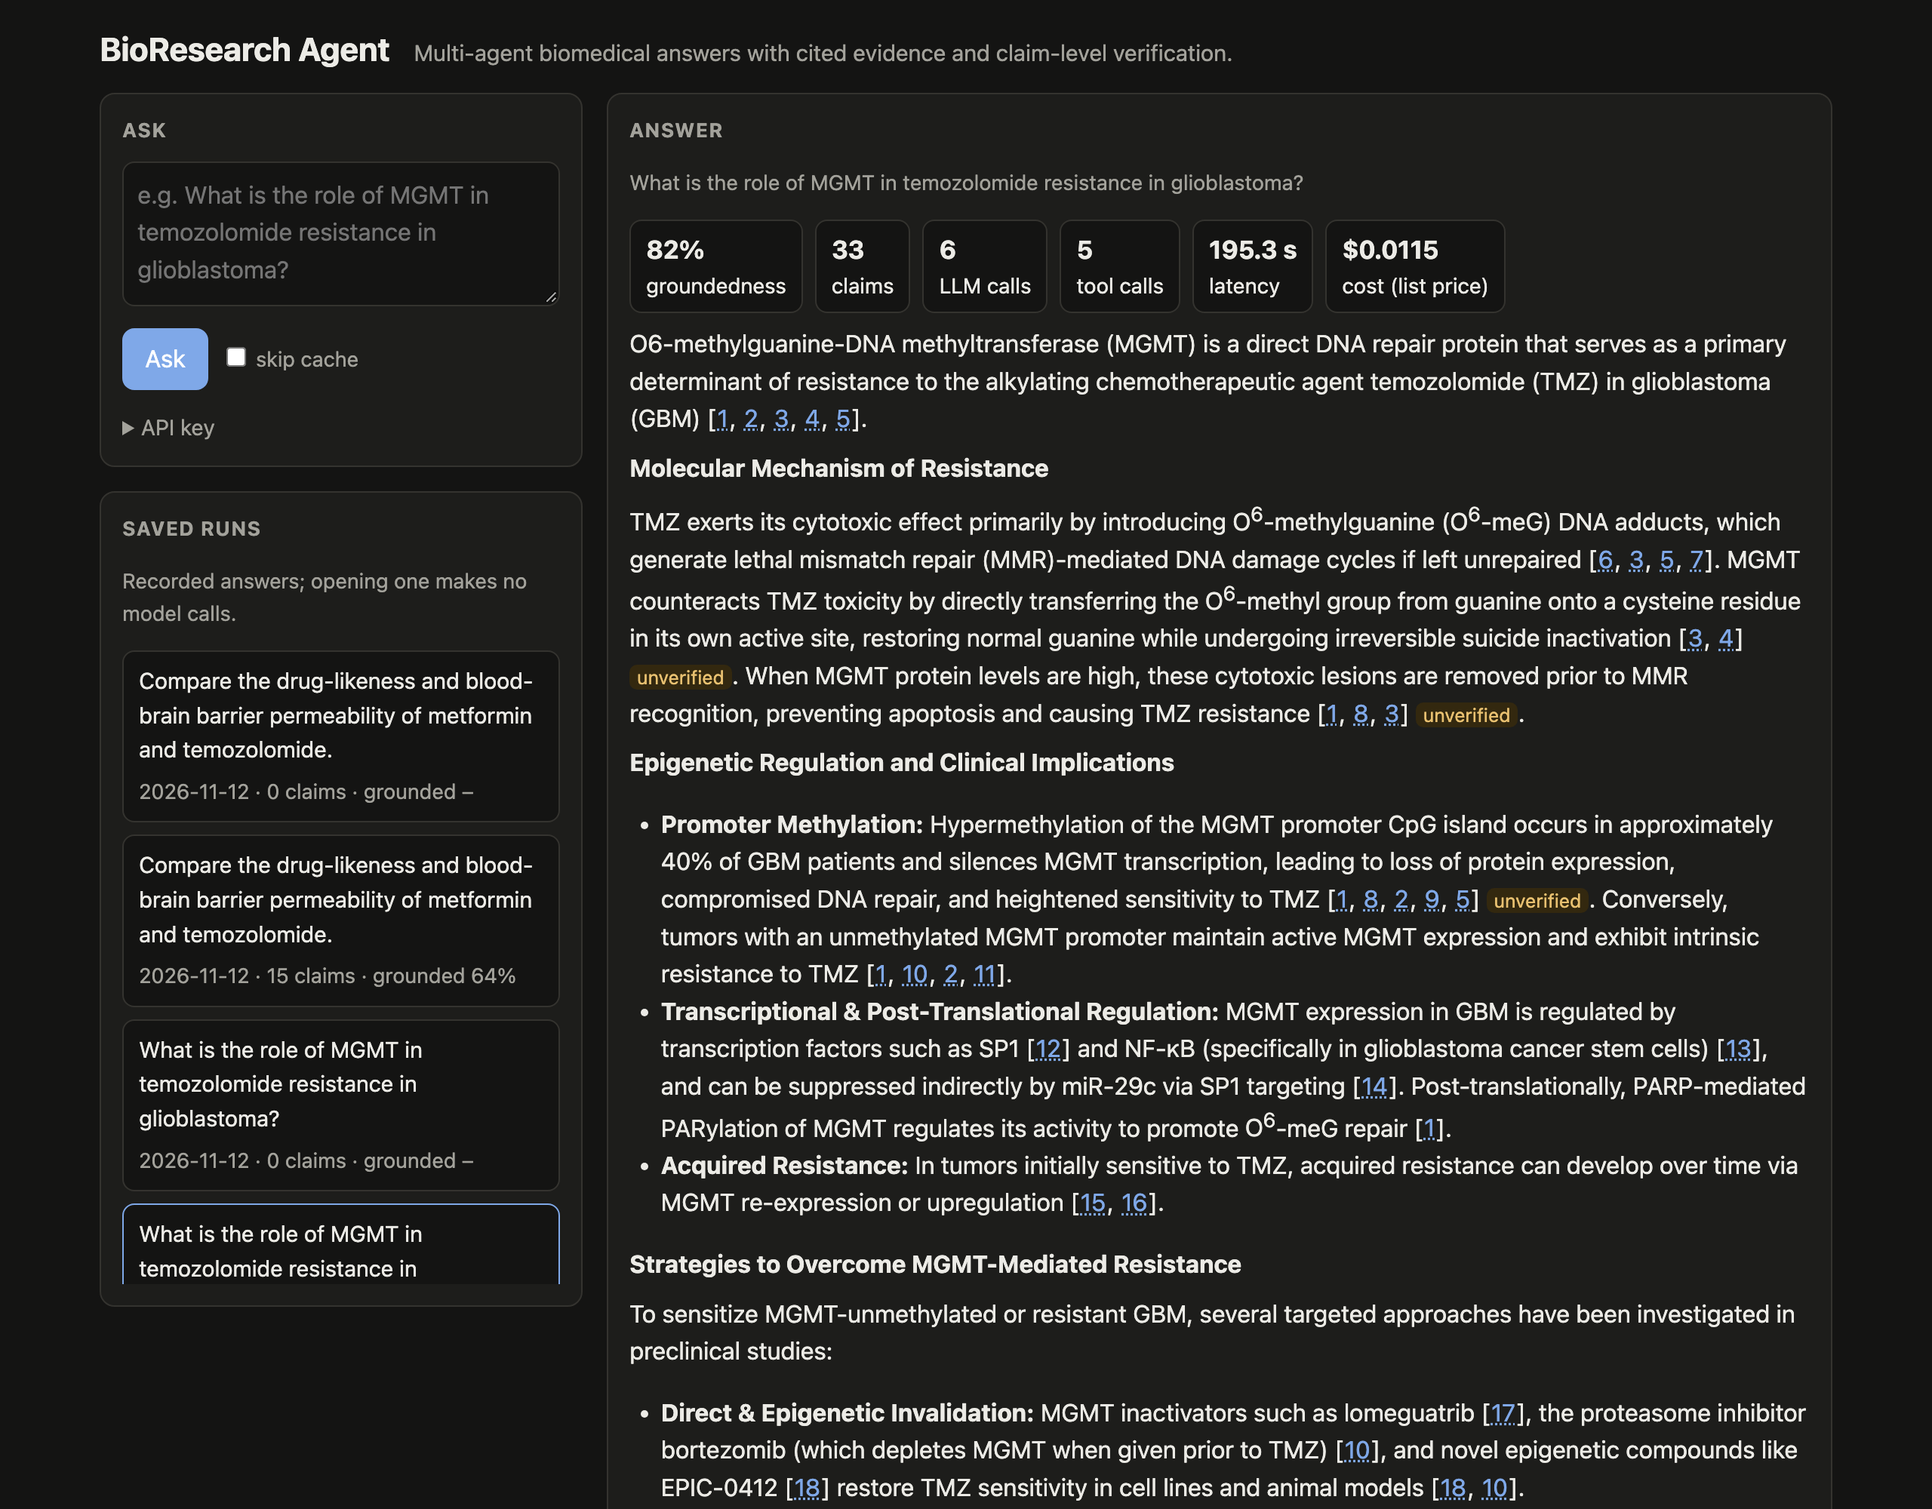
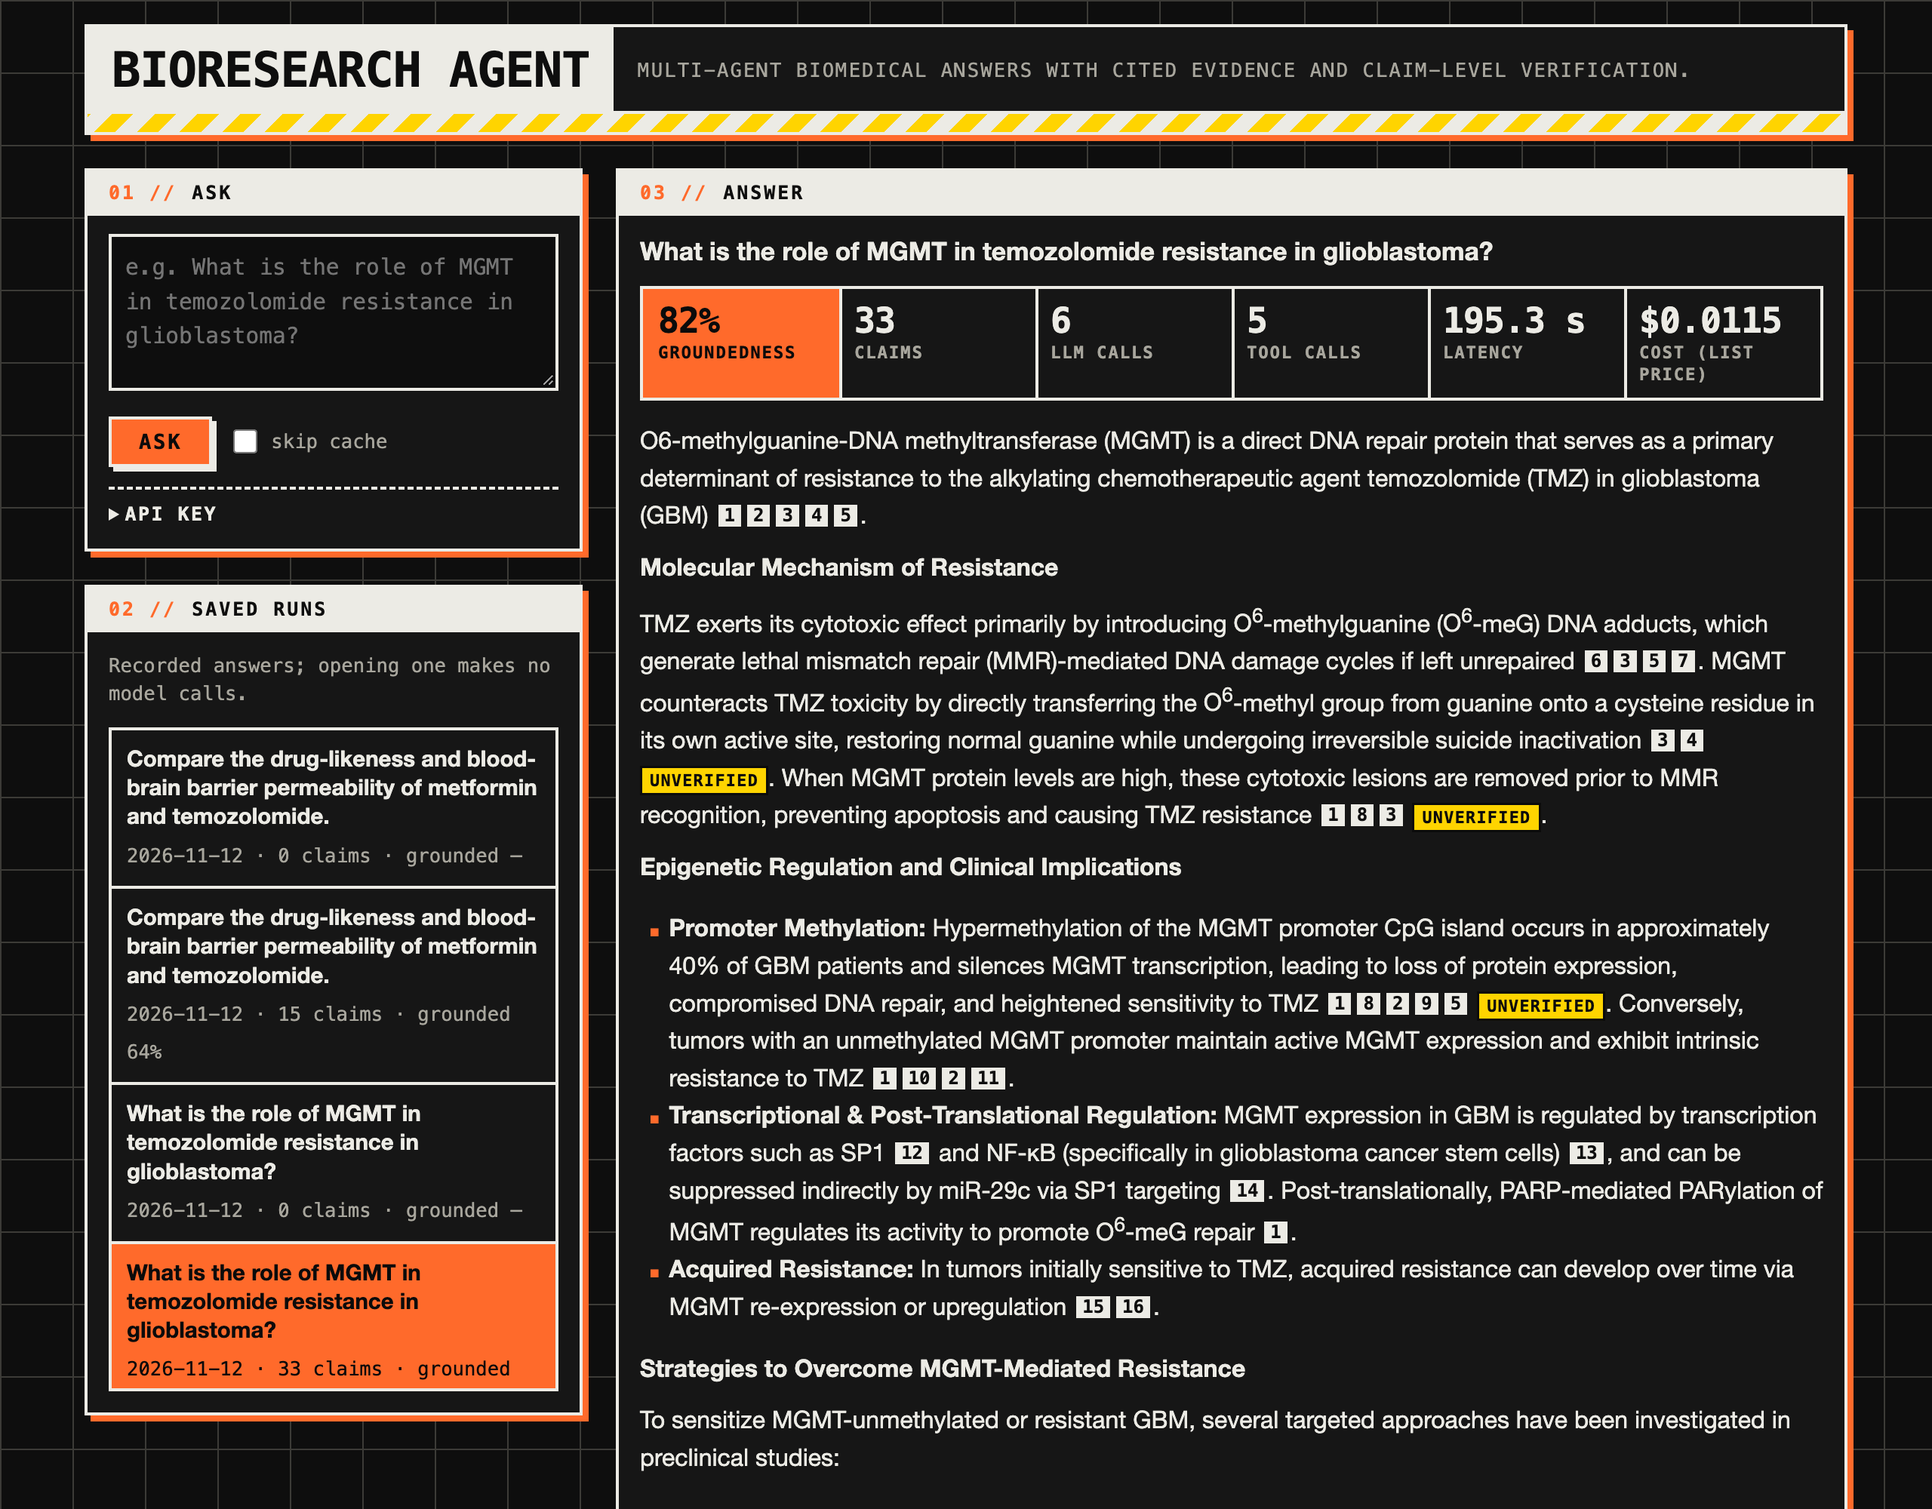
Web UI: brutalist industrial restyle
Hard 2-3 px black rules, square corners and flat offset shadows; monospace stencil labels on
inverted plates with numbered sections; a hazard-stripe header band; safety orange as the
only accent; solid-block status badges; citation chips; a blueprint grid background; mono
passages with a heavy left rule in the evidence dialog. Same markup, behaviour and
accessibility (focus rings, reduced motion); light and dark themes; the screenshots in
docs/img are regenerated. Also renders *italic* in answers.

Changed region(s): [[0.0312, 0.0, 0.9688, 1.0]]

diff --git a/src/bioagent/serve/static/index.html b/src/bioagent/serve/static/index.html
@@ -6,78 +6,119 @@
 <title>BioResearch Agent</title>
 <style>
 :root{
-  --bg:#f7f7f5;--panel:#ffffff;--fg:#1c1c1a;--muted:#62625c;--line:#e3e2dc;--acc:#2a5ea8;
-  --sup:#1f7a4a;--sup-bg:#e3f3ea;--con:#b3261e;--con-bg:#fbe5e3;--nei:#8a5a00;--nei-bg:#fbf0d9;
-  --cmp:#2a5ea8;--cmp-bg:#e4ecf8;--rem:#6b6b66;--rem-bg:#ecebe7;--abs:#6a3fa0;--abs-bg:#efe7f8;
-  --mark:#fff1a8;--radius:10px;--on-acc:#ffffff;
+  --bg:#e7e5df;--panel:#f3f2ee;--fg:#0b0b0b;--muted:#4a4943;--line:#0b0b0b;--rule:#b9b6ac;
+  --acc:#ff5a1f;--on-acc:#0b0b0b;--link:#0b0b0b;--plate:#0b0b0b;--on-plate:#f3f2ee;
+  --sup:#0b0b0b;--sup-bg:#7ee08a;--con:#ffffff;--con-bg:#c8102e;--nei:#0b0b0b;--nei-bg:#ffd400;
+  --cmp:#ffffff;--cmp-bg:#1f4fd1;--rem:#0b0b0b;--rem-bg:#c9c6bd;--abs:#ffffff;--abs-bg:#5b2ca0;
+  --mark:#ffd400;--shadow:4px 4px 0 #0b0b0b;--b:2px;
+  --mono:"JetBrains Mono","IBM Plex Mono",ui-monospace,SFMono-Regular,Menlo,Consolas,monospace;
+  --grot:"Helvetica Neue",Helvetica,Arial,"Liberation Sans",sans-serif;
 }
 @media (prefers-color-scheme:dark){:root{
-  --bg:#141413;--panel:#1d1d1b;--fg:#ecebe6;--muted:#a3a29b;--line:#34332f;--acc:#7fa8e8;
-  --sup:#7fd3a3;--sup-bg:#16301f;--con:#f2958d;--con-bg:#3a1c19;--nei:#e8c070;--nei-bg:#33280f;
-  --cmp:#9cbcf0;--cmp-bg:#1b2840;--rem:#b4b3ac;--rem-bg:#2a2a27;--abs:#c7a6f0;--abs-bg:#2a2038;
-  --mark:#5a4d10;--on-acc:#0e1a2c;
+  --bg:#0e0e0e;--panel:#161616;--fg:#ecebe5;--muted:#a8a69d;--line:#ecebe5;--rule:#3c3b37;
+  --acc:#ff6a2b;--on-acc:#0b0b0b;--link:#ecebe5;--plate:#ecebe5;--on-plate:#0e0e0e;
+  --sup:#0b0b0b;--sup-bg:#6fd37c;--con:#ffffff;--con-bg:#d81f3c;--nei:#0b0b0b;--nei-bg:#ffd400;
+  --cmp:#ffffff;--cmp-bg:#3a68ea;--rem:#0b0b0b;--rem-bg:#9e9b92;--abs:#ffffff;--abs-bg:#7a4bc4;
+  --mark:#ffd400;--shadow:4px 4px 0 #ff6a2b;
 }}
 *{box-sizing:border-box}
 html{-webkit-text-size-adjust:100%}
-body{margin:0;background:var(--bg);color:var(--fg);font:16px/1.55 system-ui,-apple-system,"Segoe UI",sans-serif}
-a{color:var(--acc)}
+body{margin:0;background:var(--bg);color:var(--fg);font:16px/1.55 var(--grot);
+  background-image:linear-gradient(var(--rule) 1px,transparent 1px),linear-gradient(90deg,var(--rule) 1px,transparent 1px);
+  background-size:48px 48px;background-attachment:fixed}
+@media (prefers-color-scheme:dark){body{background-image:linear-gradient(var(--rule) 1px,transparent 1px),linear-gradient(90deg,var(--rule) 1px,transparent 1px)}}
+a{color:var(--link);text-decoration-thickness:2px;text-underline-offset:2px}
+a:hover{background:var(--acc);color:var(--on-acc)}
 button,input,textarea,select{font:inherit;color:inherit}
-:focus-visible{outline:2px solid var(--acc);outline-offset:2px}
-.wrap{max-width:1180px;margin:0 auto;padding:16px}
-header{display:flex;flex-wrap:wrap;align-items:baseline;gap:6px 16px;margin-bottom:12px}
-header h1{font-size:1.35rem;margin:0}
-header p{margin:0;color:var(--muted);font-size:.93rem}
-.grid{display:grid;grid-template-columns:320px minmax(0,1fr);gap:16px}
-@media (max-width:860px){.grid{grid-template-columns:1fr}}
-.panel{background:var(--panel);border:1px solid var(--line);border-radius:var(--radius);padding:14px;margin-bottom:16px}
-.panel h2{font-size:.82rem;text-transform:uppercase;letter-spacing:.05em;color:var(--muted);margin:0 0 10px}
-textarea{width:100%;min-height:96px;resize:vertical;padding:9px;border:1px solid var(--line);border-radius:8px;background:var(--bg)}
-input[type=password],input[type=text]{width:100%;padding:7px 9px;border:1px solid var(--line);border-radius:8px;background:var(--bg)}
-.row{display:flex;flex-wrap:wrap;align-items:center;gap:8px;margin-top:8px}
-.btn{border:1px solid var(--acc);background:var(--acc);color:var(--on-acc);border-radius:8px;padding:7px 14px;cursor:pointer}
-.btn.ghost{background:transparent;color:var(--acc)}
-.btn[disabled]{opacity:.55;cursor:default}
-.small{font-size:.86rem;color:var(--muted)}
-details summary{cursor:pointer;color:var(--muted);font-size:.9rem}
-.runs{list-style:none;margin:0;padding:0;display:flex;flex-direction:column;gap:8px;max-height:420px;overflow:auto}
-.runs button{width:100%;text-align:left;background:var(--bg);border:1px solid var(--line);border-radius:8px;padding:8px 10px;cursor:pointer}
-.runs button[aria-current=true]{border-color:var(--acc)}
-.runs .q{display:block;font-size:.92rem;margin-bottom:3px}
-.progress{list-style:none;margin:0;padding:0;font-size:.9rem}
-.progress li{padding:4px 0;border-bottom:1px dashed var(--line);display:flex;gap:8px}
-.progress .node{font-weight:600;min-width:92px}
-.stats{display:flex;flex-wrap:wrap;gap:8px;margin:0;padding:0;list-style:none}
-.stats li{background:var(--bg);border:1px solid var(--line);border-radius:8px;padding:6px 10px;font-size:.88rem}
-.stats b{display:block;font-size:1.05rem}
-.answer{overflow-wrap:anywhere}
-.answer p{margin:.5em 0}.answer ul{padding-left:1.3em}
-.cite{border:none;background:none;color:var(--acc);padding:0 1px;cursor:pointer;font:inherit;text-decoration:underline dotted}
-.flag{font-size:.78rem;border-radius:5px;padding:1px 5px;background:var(--nei-bg);color:var(--nei);white-space:nowrap}
-table{width:100%;border-collapse:collapse;font-size:.92rem}
-th,td{text-align:left;vertical-align:top;padding:7px 6px;border-bottom:1px solid var(--line)}
-th{font-size:.78rem;text-transform:uppercase;letter-spacing:.04em;color:var(--muted)}
+:focus-visible{outline:3px solid var(--acc);outline-offset:2px}
+.wrap{max-width:1200px;margin:0 auto;padding:16px}
+header{border:var(--b) solid var(--line);background:var(--panel);box-shadow:var(--shadow);margin-bottom:22px;
+  display:flex;flex-wrap:wrap;align-items:stretch;position:relative;padding-bottom:12px}
+header::after{content:"";position:absolute;left:0;right:0;bottom:0;height:12px;
+  background:repeating-linear-gradient(-45deg,var(--plate) 0 10px,var(--nei-bg) 10px 20px);border-top:var(--b) solid var(--line)}
+header h1{margin:0;padding:12px 16px;font:800 clamp(1.3rem,3.2vw,2rem)/1.05 var(--mono);text-transform:uppercase;
+  letter-spacing:-.02em;background:var(--plate);color:var(--on-plate)}
+header p{margin:0;padding:12px 16px;align-self:center;font:500 .8rem/1.4 var(--mono);text-transform:uppercase;
+  letter-spacing:.08em;color:var(--muted);flex:1 1 260px}
+.grid{display:grid;grid-template-columns:330px minmax(0,1fr);gap:22px;counter-reset:panel}
+@media (max-width:860px){.grid{grid-template-columns:1fr;gap:18px}}
+.panel{background:var(--panel);border:var(--b) solid var(--line);box-shadow:var(--shadow);padding:0 14px 14px;margin-bottom:22px;counter-increment:panel}
+.panel h2{margin:0 -14px 12px;padding:6px 14px;background:var(--plate);color:var(--on-plate);
+  font:700 .78rem/1.4 var(--mono);text-transform:uppercase;letter-spacing:.12em;display:flex;gap:10px}
+.panel h2::before{content:counter(panel,decimal-leading-zero) " //";color:var(--acc)}
+textarea,input[type=password],input[type=text]{width:100%;border:var(--b) solid var(--line);border-radius:0;background:var(--bg);padding:9px;font-family:var(--mono);font-size:.92rem}
+textarea{min-height:104px;resize:vertical}
+textarea:focus,input:focus{background:var(--panel)}
+.row{display:flex;flex-wrap:wrap;align-items:center;gap:10px;margin-top:10px}
+.btn{border:var(--b) solid var(--line);background:var(--acc);color:var(--on-acc);border-radius:0;padding:8px 18px;cursor:pointer;
+  font:800 .85rem/1 var(--mono);text-transform:uppercase;letter-spacing:.1em;box-shadow:3px 3px 0 var(--line);transition:transform .05s,box-shadow .05s}
+.btn:hover{transform:translate(-1px,-1px);box-shadow:4px 4px 0 var(--line)}
+.btn:active{transform:translate(3px,3px);box-shadow:0 0 0 var(--line)}
+.btn.ghost{background:var(--panel);color:var(--fg)}
+.btn[disabled]{background:var(--rem-bg);cursor:default;transform:none;box-shadow:none}
+.small{font:500 .8rem/1.45 var(--mono);color:var(--muted)}
+label.small{display:inline-flex;align-items:center;gap:6px}
+input[type=checkbox]{accent-color:var(--acc);width:16px;height:16px}
+details{margin-top:10px;border-top:var(--b) dashed var(--line);padding-top:8px}
+details summary{cursor:pointer;font:700 .78rem/1.4 var(--mono);text-transform:uppercase;letter-spacing:.1em}
+.runs{list-style:none;margin:0;padding:0;display:flex;flex-direction:column;gap:0;max-height:440px;overflow:auto;border:var(--b) solid var(--line)}
+.runs li+li{border-top:var(--b) solid var(--line)}
+.runs button{width:100%;text-align:left;background:var(--panel);border:0;border-radius:0;padding:9px 10px;cursor:pointer}
+.runs button:hover{background:var(--bg)}
+.runs button[aria-current=true]{background:var(--acc);color:var(--on-acc)}
+.runs button[aria-current=true] .small{color:var(--on-acc)}
+.runs .q{display:block;font-weight:700;font-size:.92rem;margin-bottom:3px;line-height:1.3}
+.progress{list-style:none;margin:0;padding:0;font:500 .84rem/1.4 var(--mono);counter-reset:step}
+.progress li{counter-increment:step;padding:5px 0;border-bottom:1px solid var(--rule);display:flex;gap:10px}
+.progress li::before{content:counter(step,decimal-leading-zero);color:var(--muted);min-width:22px}
+.progress .node{font-weight:800;min-width:96px;text-transform:uppercase}
+.progress li:last-child .node{color:var(--acc)}
+.stats{display:grid;grid-template-columns:repeat(auto-fit,minmax(118px,1fr));gap:0;margin:0 0 14px;padding:0;list-style:none;border:var(--b) solid var(--line)}
+.stats li{padding:8px 10px;font:600 .7rem/1.3 var(--mono);text-transform:uppercase;letter-spacing:.08em;color:var(--muted);
+  border-right:var(--b) solid var(--line);border-bottom:var(--b) solid var(--line);margin:0 -2px -2px 0}
+.stats b{display:block;font:800 1.45rem/1.15 var(--mono);color:var(--fg);letter-spacing:-.02em;text-transform:none}
+.stats li:first-child{background:var(--acc)}.stats li:first-child,.stats li:first-child b{color:var(--on-acc)}
+#qtext{font:700 1.05rem/1.35 var(--grot);color:var(--fg);margin:2px 0 12px}
+.answer{overflow-wrap:anywhere;font-size:1rem}
+.answer p{margin:.6em 0}.answer ul{padding-left:1.2em}.answer li::marker{content:"■  ";font-size:.7em;color:var(--acc)}
+.answer strong{font-weight:800}
+.cite{border:0;background:var(--plate);color:var(--on-plate);padding:0 4px;margin:0 2px;cursor:pointer;font:700 .75em/1.2 var(--mono);vertical-align:.12em}
+.cite:hover{background:var(--acc);color:var(--on-acc)}
+.flag{font:800 .68rem/1 var(--mono);text-transform:uppercase;letter-spacing:.06em;padding:2px 5px;background:var(--nei-bg);color:#0b0b0b;border:1.5px solid #0b0b0b;white-space:nowrap}
+table{width:100%;border-collapse:collapse;font-size:.92rem;border:var(--b) solid var(--line)}
+th,td{text-align:left;vertical-align:top;padding:8px 8px;border-bottom:1px solid var(--rule)}
+th{background:var(--plate);color:var(--on-plate);font:700 .72rem/1.3 var(--mono);text-transform:uppercase;letter-spacing:.1em}
+td:first-child,td:last-child{font-family:var(--mono);font-size:.84rem;white-space:nowrap}
+tbody tr:hover{background:var(--bg)}
 .tablewrap{overflow-x:auto}
 .claimbtn{border:none;background:none;text-align:left;padding:0;cursor:pointer;color:inherit;font:inherit}
-.claimbtn:hover{text-decoration:underline}
-.badge{display:inline-block;font-size:.78rem;font-weight:600;border-radius:999px;padding:2px 8px;white-space:nowrap}
+.claimbtn:hover{text-decoration:underline;text-decoration-thickness:2px;text-decoration-color:var(--acc)}
+.badge{display:inline-block;font:800 .68rem/1 var(--mono);text-transform:uppercase;letter-spacing:.06em;padding:4px 6px;white-space:nowrap;border:1.5px solid #0b0b0b}
 .b-supported{color:var(--sup);background:var(--sup-bg)}.b-contradicted{color:var(--con);background:var(--con-bg)}
 .b-not_supported{color:var(--nei);background:var(--nei-bg)}.b-computed{color:var(--cmp);background:var(--cmp-bg)}
 .b-removed{color:var(--rem);background:var(--rem-bg);text-decoration:line-through}.b-absence{color:var(--abs);background:var(--abs-bg)}
-.b-unchecked{color:var(--muted);background:var(--bg)}
-.refs{padding-left:1.4em;font-size:.9rem}
-.refs li{margin:4px 0}
-dialog{border:1px solid var(--line);border-radius:var(--radius);background:var(--panel);color:var(--fg);width:min(760px,calc(100vw - 24px));max-height:calc(100vh - 32px);padding:0}
-dialog::backdrop{background:rgba(0,0,0,.45)}
-.dlg-head{display:flex;justify-content:space-between;gap:12px;padding:14px 16px;border-bottom:1px solid var(--line)}
+.b-unchecked{color:var(--fg);background:var(--panel)}
+.refs{padding-left:2.4em;font-size:.9rem}
+.refs li{margin:6px 0;padding-left:4px}
+.refs li::marker{font:700 .8rem var(--mono)}
+dialog{border:3px solid var(--line);border-radius:0;background:var(--panel);color:var(--fg);width:min(780px,calc(100vw - 24px));
+  max-height:calc(100vh - 32px);padding:0;box-shadow:8px 8px 0 var(--acc)}
+dialog::backdrop{background:repeating-linear-gradient(-45deg,rgba(0,0,0,.55) 0 14px,rgba(0,0,0,.65) 14px 28px)}
+.dlg-head{display:flex;justify-content:space-between;align-items:flex-start;gap:12px;padding:12px 16px;background:var(--plate);color:var(--on-plate)}
+.dlg-head h3{font:800 1rem/1.2 var(--mono)!important;text-transform:uppercase;letter-spacing:.06em}
+.dlg-head .small{color:var(--on-plate);opacity:.8}
+.dlg-head .btn{box-shadow:none}
 .dlg-body{padding:14px 16px;overflow:auto;max-height:calc(100vh - 140px)}
-.tabs{display:flex;flex-wrap:wrap;gap:6px;margin:10px 0}
-.tabs button{border:1px solid var(--line);background:var(--bg);border-radius:999px;padding:3px 10px;cursor:pointer;font-size:.86rem}
-.tabs button[aria-selected=true]{border-color:var(--acc);color:var(--acc)}
-.passage{white-space:pre-wrap;background:var(--bg);border:1px solid var(--line);border-radius:8px;padding:10px;font-size:.92rem}
-mark{background:var(--mark);color:inherit;border-radius:3px;padding:0 1px}
-.empty{color:var(--muted);font-size:.92rem}
-.err{color:var(--con)}
+.tabs{display:flex;flex-wrap:wrap;gap:0;margin:10px 0;border:var(--b) solid var(--line);width:max-content;max-width:100%}
+.tabs button{border:0;border-right:var(--b) solid var(--line);background:var(--panel);border-radius:0;padding:5px 12px;cursor:pointer;font:700 .82rem/1 var(--mono)}
+.tabs button:last-child{border-right:0}
+.tabs button[aria-selected=true]{background:var(--acc);color:var(--on-acc)}
+.passage{white-space:pre-wrap;background:var(--bg);border:var(--b) solid var(--line);border-left-width:8px;padding:12px;font:400 .88rem/1.6 var(--mono)}
+mark{background:var(--mark);color:#0b0b0b;padding:0 2px;box-shadow:0 0 0 1px #0b0b0b}
+.empty{font:500 .82rem/1.45 var(--mono);color:var(--muted);text-transform:uppercase;letter-spacing:.06em}
+.err{color:var(--con-bg);font-family:var(--mono);font-weight:700}
 .sr{position:absolute;width:1px;height:1px;overflow:hidden;clip:rect(0 0 0 0)}
+@media (prefers-reduced-motion:reduce){.btn{transition:none}}
 </style>
 </head>
 <body>
@@ -185,23 +226,25 @@ const fmt = {
 /* ---------- answer rendering (escaped text, light markdown, clickable citations) ---------- */
 function inline(text) {
   const frag = document.createDocumentFragment();
-  const re = /\[(\d+(?:\s*[-,]\s*\d+)*)\]|\*\*([^*]+)\*\*|\[unverified\]|\$([^$\n]{1,80})\$/g;
+  const re = /\[(\d+(?:\s*[-,]\s*\d+)*)\]|\*\*([^*]+)\*\*|\[unverified\]|\$([^$\n]{1,80})\$|\*([^*\n]+)\*/g;
   let last = 0, m;
   while ((m = re.exec(text))) {
     if (m.index > last) frag.append(text.slice(last, m.index));
-    if (m[3] !== undefined) frag.append(math(m[3]));
+    if (m[4] !== undefined) frag.append(el("em", {}, m[4]));
+    else if (m[3] !== undefined) frag.append(math(m[3]));
     else if (m[0] === "[unverified]") frag.append(el("span", {class: "flag", title: "the verifier could not support this sentence"}, "unverified"));
     else if (m[2]) frag.append(el("strong", {}, m[2]));
     else {
-      frag.append("[");
+      // citation chips; the brackets stay in the text for copying, hidden visually
+      frag.append(el("span", {class: "sr"}, "["));
       const nums = m[1].split(/\s*,\s*/);
       nums.forEach((part, i) => {
         const n = parseInt(part, 10);
         frag.append(el("button", {class: "cite", type: "button", "aria-label": "reference " + part,
           onclick: () => openReference(n)}, part));
-        if (i < nums.length - 1) frag.append(", ");
+        if (i < nums.length - 1) frag.append(el("span", {class: "sr"}, ", "));
       });
-      frag.append("]");
+      frag.append(el("span", {class: "sr"}, "]"));
     }
     last = re.lastIndex;
   }
